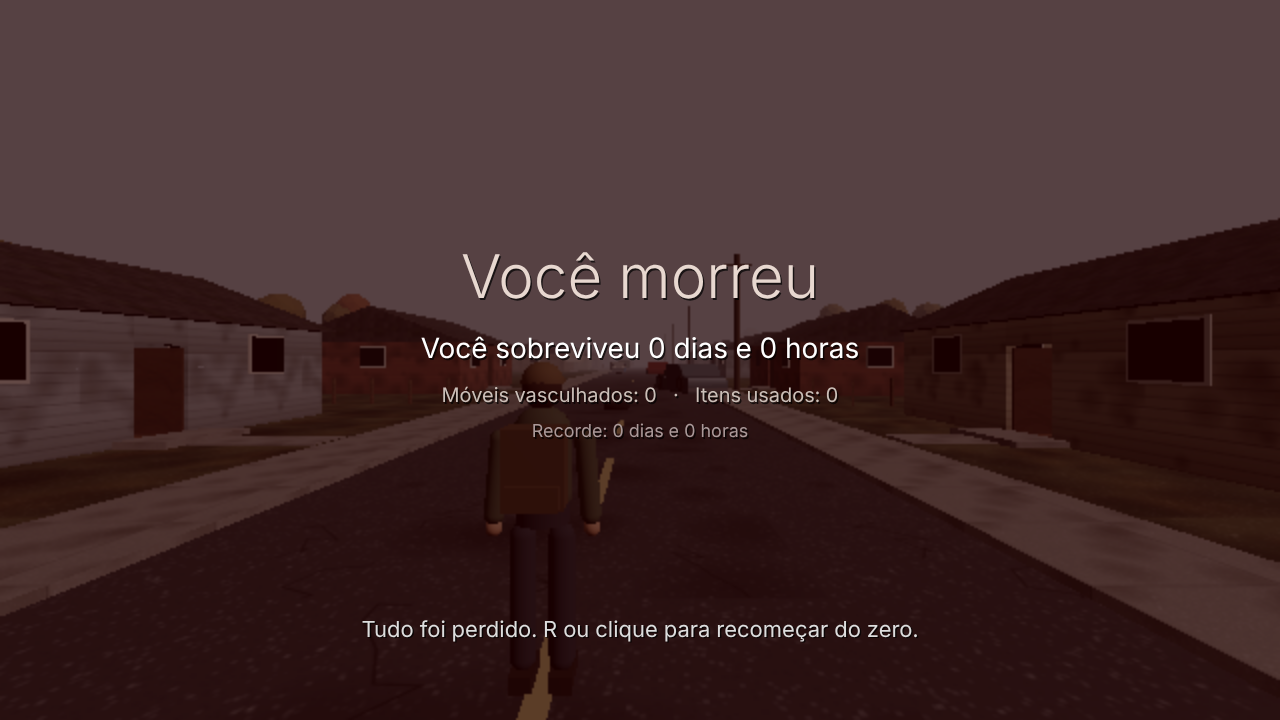
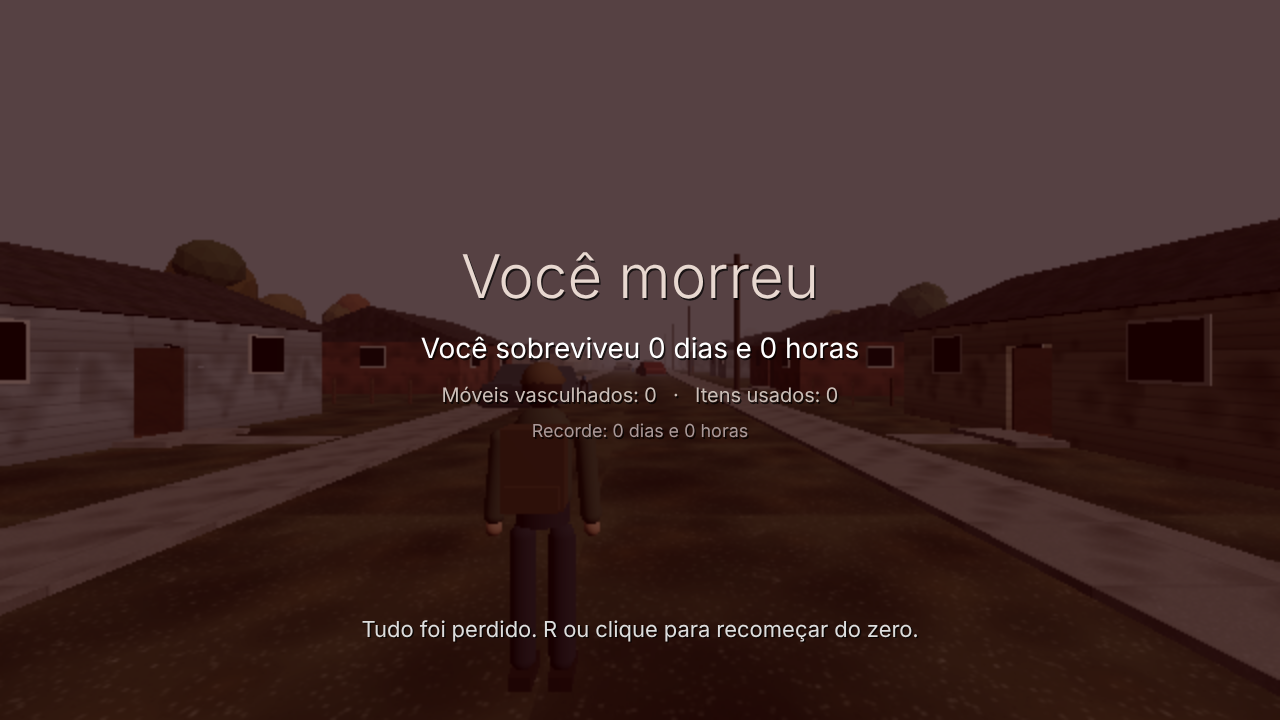
feat: mundo sem fim gerado ao redor do jogador
O mapa não tem borda: quadrados de 100 m são gerados perto do jogador e
descarregados quando longe, guardando o que mudou (móveis vasculhados,
carros estacionados, bombas usadas). Estradas em grade a cada 600 m a
partir da região inicial, com cidades nos cruzamentos, vilas, casas,
postos, fazendas, cabanas, lagos, plantações e florestas.

Story: SPIKE sobrevivencia-spike-2026-11-20

Claude-Session: https://claude.ai/code/session_013o8aek17KGRmKMrjDa2EVT

diff --git a/prototypes/sobrevivencia-spike-2026-11-20/index.html b/prototypes/sobrevivencia-spike-2026-11-20/index.html
@@ -727,11 +727,12 @@ const PLACES = [
   { name: 'Posto Florestal', x: -118, z: -205, r: 30 },
   { name: 'Lago Azul', x: 155, z: 170, r: 60 },
 ];
+let groundMesh = null; // follows the player in 5 m steps (the grass repeats every 5 m)
 const ROAD_A = -55, ROAD_B = 55; // the town's side roads: east to the village, west to the farm
 function buildWorld() {
   // ground, road, sidewalks, centre line
   const gg = new THREE.PlaneGeometry(900, 900); gg.attributes.uv.array.forEach((v, i, a) => { a[i] = v * 180; });
-  mesh(gg, MAT.grass, 0, 0, 0, world, false).rotation.x = -Math.PI / 2;
+  groundMesh = mesh(gg, MAT.grass, 0, 0, 0, world, false); groundMesh.rotation.x = -Math.PI / 2;
   box(0, -0.02, -15, 8, 0.04, 300, MAT.asphalt, false, 6);
   box(-5, 0, -15, 2, 0.12, 300, MAT.concrete, false, 1.5); box(5, 0, -15, 2, 0.12, 300, MAT.concrete, false, 1.5);
   for (let z = 125; z > -150; z -= 6) if (vr(z) > 0.25) box(0, 0.01, z, 0.15, 0.02, 3, MAT.line, false);
@@ -741,7 +742,7 @@ function buildWorld() {
     for (const s of [-1, 1]) {
       const w = 7 + wrng() * 2.5, d = 9.5 + wrng() * 2.5, cz = z + (wrng() - 0.5) * 4;
       const cx = s * (8 + w / 2 + wrng() * 3);
-      if ((s > 0 && Math.abs(cz - ROAD_A) < d / 2 + 6) || (s < 0 && Math.abs(cz - ROAD_B) < d / 2 + 6)) continue; // a side road leaves here
+      if (Math.abs(cz - ROAD_A) < d / 2 + 6 || (s < 0 && Math.abs(cz - ROAD_B) < d / 2 + 6)) continue; // a side road leaves here
       houses.push(house(cx, cz, w, d, -s, mi++ + Math.floor(wrng() * 3)));
       // a fence segment between yards
       if (wrng() < 0.6) for (let i = 0; i < 6; i++) box(s * (7.5 + i * 1.6), 0, cz + 11, 0.08, 1.0 + vr(i + z) * 0.15, 0.08, MAT.planks, false, 1);
@@ -814,9 +815,11 @@ const MAT2 = {
   white: new THREE.MeshStandardMaterial({ color: 0xcfcbc0, roughness: 0.6 }),
 };
 function buildRoads() {
-  road(4, 216, ROAD_A - 4, ROAD_A + 4);                 // east to the village
+  road(4, 350, ROAD_A - 4, ROAD_A + 4);                 // east past the village, on to the next region
+  road(-350, -4, ROAD_A - 4, ROAD_A + 4);               // west out of the region
+  road(-4, 4, -350, -158);                              // north past the market
   road(-206, -4, ROAD_B - 4, ROAD_B + 4);               // west to the farm
-  road(-4, 4, 135, 295);                                // south out of town
+  road(-4, 4, 135, 350);                                // south out of town
   road(4, 108, 167, 173, MAT2.dirt);                    // lane to the lake
   road(-206, -194, 59, 175, MAT2.dirt);                 // farm lane
   road(-124, -116, -200, 51, MAT2.dirt);                // track to the ranger post
@@ -926,6 +929,7 @@ function buildSouth() { // a few houses on the road out of town
 }
 // Where trees may not grow: towns, roads, fields, the lake.
 const CLEAR = [
+  [-352, 352, ROAD_A - 7, ROAD_A + 7], [-8, 8, -352, -150], [-8, 8, 290, 352],
   [-30, 30, -172, 135], [0, 222, ROAD_A - 7, ROAD_A + 7], [178, 250, -248, -48], [-210, 0, ROAD_B - 7, ROAD_B + 7],
   [-292, -128, 55, 182], [-128, -112, -205, 58], [-135, -96, -222, -190], [-8, 8, 130, 300], [-26, 26, 175, 275], [0, 112, 160, 180],
 ];
@@ -944,16 +948,26 @@ function buildForest() {
     // woods come in patches: thin in open country, thick in the woods and near the edge
     const patch = Math.sin(x * 0.021) * Math.cos(z * 0.017) + Math.sin((x + z) * 0.011);
     if (edge < 260 && patch < -0.2 && wrng() < 0.85) continue;
-    const tr = { x, z, h: 4 + wrng() * 4, crowns: [] };
-    for (let k = 0; k < 2; k++) tr.crowns.push({ ci: Math.floor(wrng() * 3), r: 1.6 + wrng() * 1.6, ex: wrng() * 3, ey: wrng() * 3, ox: (wrng() - 0.5) * 1.2, oz: (wrng() - 0.5) * 1.2, k });
+    const tr = makeTree(x, z);
     const c = chunkOf(x, z); if (!byChunk.has(c)) byChunk.set(c, []); byChunk.get(c).push(tr);
     if (x > BOUND.x0 - 2 && x < BOUND.x1 + 2 && z > BOUND.z0 - 2 && z < BOUND.z1 + 2) { boxes.push({ x0: x - 0.3, x1: x + 0.3, z0: z - 0.3, z1: z + 0.3, y0: 0, y1: 9 }); trees.push({ x, z }); }
     n++;
   }
-  // one set of instanced meshes per chunk, so a far chunk's trees switch off with it
-  const trunkG = new THREE.CylinderGeometry(0.2, 0.32, 1, 7), crownG = new THREE.IcosahedronGeometry(1, 1);
+  for (const [c, list] of byChunk) plantTrees(c, list);
+}
+// One set of instanced meshes per chunk, so a far chunk's trees switch off (and unload) with it.
+const TRUNK_G = new THREE.CylinderGeometry(0.2, 0.32, 1, 7), CROWN_G = new THREE.IcosahedronGeometry(1, 1);
+TRUNK_G.userData.shared = CROWN_G.userData.shared = true;
+function makeTree(x, z) {
+  const tr = { x, z, h: 4 + wrng() * 4, crowns: [] };
+  for (let k = 0; k < 2; k++) tr.crowns.push({ ci: Math.floor(wrng() * 3), r: 1.6 + wrng() * 1.6, ex: wrng() * 3, ey: wrng() * 3, ox: (wrng() - 0.5) * 1.2, oz: (wrng() - 0.5) * 1.2, k });
+  return tr;
+}
+function plantTrees(c, list) {
+  if (!list.length) return;
+  const trunkG = TRUNK_G, crownG = CROWN_G;
   const m4 = new THREE.Matrix4(), q = new THREE.Quaternion(), e = new THREE.Euler(), v = new THREE.Vector3(), sc = new THREE.Vector3();
-  for (const [c, list] of byChunk) {
+  {
     const trunks = new THREE.InstancedMesh(trunkG, MAT.bark, list.length);
     const crowns = [MAT.leafA, MAT.leafB, MAT.leafC].map(m => new THREE.InstancedMesh(crownG, m, list.length * 2));
     const cn = [0, 0, 0];
@@ -974,13 +988,18 @@ function buildForest() {
 // ---- Streaming: the map in 100 m chunks; only those near the player are on --------------------
 // A chunk that is off is not drawn, not hit by the aim or camera rays, and its walls are not
 // tested for collision. Nothing in it is lost: furniture, loot and fires keep their state.
-const CH = 100, CH0 = -350, CHN = 7;
-const chunks = [];
-for (let j = 0; j < CHN; j++) for (let i = 0; i < CHN; i++) chunks.push({ i, j, x0: CH0 + i * CH, z0: CH0 + j * CH, objs: [], solids: [], on: true, near: false });
-function chunkOf(x, z) {
-  const i = Math.max(0, Math.min(CHN - 1, Math.floor((x - CH0) / CH))), j = Math.max(0, Math.min(CHN - 1, Math.floor((z - CH0) / CH)));
-  return chunks[j * CHN + i];
+// The map has no edge: chunk (gi, gj) covers x from gi*100-50 to gi*100+50 (z likewise). The
+// starting region (|gi|, |gj| <= 3) is built once at start; every other chunk is generated when
+// you come near and unloaded again when you are far, keeping what you did there (see genChunk).
+const CH = 100;
+const chunks = new Map();
+const isOrigin = (gi, gj) => Math.abs(gi) <= 3 && Math.abs(gj) <= 3;
+function chunkAt(gi, gj) {
+  const k = gi + ',' + gj; let c = chunks.get(k);
+  if (!c) { c = { key: k, gi, gj, i: gi, j: gj, x0: gi * CH - CH / 2, z0: gj * CH - CH / 2, objs: [], solids: [], on: true, near: false, origin: isOrigin(gi, gj), gen: false }; chunks.set(k, c); }
+  return c;
 }
+function chunkOf(x, z) { return chunkAt(Math.floor((x + CH / 2) / CH), Math.floor((z + CH / 2) / CH)); }
 const globalSolids = [];
 function chunkWorld() { // sort everything built so far into chunks; very large pieces (ground, long roads) stay on
   const solidSet = new Set(solids), b3 = new THREE.Box3(), v = new THREE.Vector3(), sz = new THREE.Vector3();
@@ -995,8 +1014,8 @@ function chunkWorld() { // sort everything built so far into chunks; very large 
 // Collision lookup: a 10 m grid over the static boxes; fires and other later boxes are in dynBoxes.
 const GRID = 10, grid = new Map(), dynBoxes = [];
 const gkey = (i, j) => i * 4096 + j;
-function indexBoxes() {
-  for (const b of boxes) for (let i = Math.floor(b.x0 / GRID); i <= Math.floor(b.x1 / GRID); i++) for (let j = Math.floor(b.z0 / GRID); j <= Math.floor(b.z1 / GRID); j++) {
+function indexBoxes(list = boxes) {
+  for (const b of list) for (let i = Math.floor(b.x0 / GRID); i <= Math.floor(b.x1 / GRID); i++) for (let j = Math.floor(b.z0 / GRID); j <= Math.floor(b.z1 / GRID); j++) {
     const k = gkey(i, j); if (!grid.has(k)) grid.set(k, []); grid.get(k).push(b);
   }
 }
@@ -1024,9 +1043,9 @@ function mergeGeos(list) {
   out.setAttribute('uv', new THREE.BufferAttribute(uv, 2)); out.setIndex(new THREE.BufferAttribute(idx, 1));
   out.computeBoundingSphere(); return out;
 }
-function bakeChunks() {
-  world.updateMatrixWorld(true);
-  for (const c of chunks) {
+function bakeChunks() { world.updateMatrixWorld(true); for (const c of chunks.values()) bakeChunk(c); }
+function bakeChunk(c) {
+  {
     const groups = new Map(), keep = [];
     for (const o of c.objs) {
       if (o.isInstancedMesh) { keep.push(o); continue; }
@@ -1043,19 +1062,182 @@ function bakeChunks() {
     for (const { mat, cast, geos } of groups.values()) {
       const m = new THREE.Mesh(mergeGeos(geos), mat); m.castShadow = cast; m.receiveShadow = true;
       m.matrixAutoUpdate = false; world.add(m); keep.push(m);
+      for (const g of geos) g.dispose();
     }
+    c.hidden = c.objs.filter(o => !o.isInstancedMesh); // originals, kept for rays; freed on unload
     c.objs = keep;
   }
+}
+// ---- The endless world: chunks generated around you, unloaded when far ----------------------------
+const saves = new Map();      // chunk key -> what you changed there: furniture loot, parked cars
+const orphanCars = new Set(); // cars driven out of their own chunk; they stay until far from you
+const TOWN_NAMES = ['São Jorge', 'Boa Esperança', 'Santa Rita', 'Nova Aurora', 'Pedra Branca', 'Rio Seco', 'Campo Belo', 'Vale Verde',
+  'Monte Alto', 'Ribeirão Frio', 'Lagoa Funda', 'Serra Velha', 'Bom Retiro', 'Água Clara', 'Três Cruzes', 'Porto Novo', 'Alto Bonito', 'Cerro Azul'];
+function hash2(a, b) { let h = Math.imul(a | 0, 374761393) ^ Math.imul(b | 0, 668265263) ^ Math.imul(CONFIG.seed, 2246822519); h = Math.imul(h ^ (h >>> 13), 1274126177); return (h ^ (h >>> 16)) | 0; }
+const mod = (a, n) => ((a % n) + n) % n;
+const colRoadAt = gi => mod(gi, 6) === 0;                                 // a road along z at x = gi*100
+const nearestRowZ = z => ROAD_A + Math.round((z - ROAD_A) / 600) * 600;
+function rowRoadIn(z0) { const z = nearestRowZ(z0 + 50); return z - 4 >= z0 && z + 4 <= z0 + CH ? z : null; } // along x
+function streamWorld(R) {
+  const s = state, GEN = R + 70, DROP = GEN + 140;
+  const gi0 = Math.floor((s.x + 50) / CH), gj0 = Math.floor((s.z + 50) / CH), n = Math.ceil(GEN / CH) + 1;
+  // generate the nearest missing chunk (one per call keeps it smooth)
+  let best = null, bd = Infinity;
+  for (let i = gi0 - n; i <= gi0 + n; i++) for (let j = gj0 - n; j <= gj0 + n; j++) {
+    if (isOrigin(i, j)) continue;
+    const c = chunks.get(i + ',' + j); if (c && c.gen) continue;
+    const x0 = i * CH - 50, z0 = j * CH - 50, dx = Math.max(x0 - s.x, 0, s.x - (x0 + CH)), dz = Math.max(z0 - s.z, 0, s.z - (z0 + CH)), d = Math.hypot(dx, dz);
+    if (d < GEN && d < bd) { bd = d; best = [i, j]; }
+  }
+  if (best) genChunk(chunkAt(best[0], best[1]));
+  for (const c of [...chunks.values()]) {
+    if (!c.gen) continue;
+    const dx = Math.max(c.x0 - s.x, 0, s.x - (c.x0 + CH)), dz = Math.max(c.z0 - s.z, 0, s.z - (c.z0 + CH));
+    if (Math.hypot(dx, dz) > DROP) unloadChunk(c);
+  }
+  for (const car of [...orphanCars]) if (car !== s.driving && Math.hypot(car.chassis.position.x - s.x, car.chassis.position.z - s.z) > DROP) { removeCar(car); orphanCars.delete(car); }
+}
+function genChunk(c) {
+  wseed = hash2(c.gi, c.gj);
+  const n0 = { kids: world.children.length, solids: solids.length, boxes: boxes.length, cont: containers.length, doors: doors.length, props: props.length, cars: cars.length, trees: trees.length, lakes: lakes.length, pumps: pumps.length };
+  const x0 = c.x0, z0 = c.z0, cx = x0 + 50, cz = z0 + 50, col = colRoadAt(c.gi), rz = rowRoadIn(z0);
+  const save = saves.get(c.key);
+  const clear = []; // rectangles where no tree grows
+  const treesIn = [];
+  const addTrees = (count) => {
+    for (let i = 0, k = 0; i < count * 4 && k < count; i++) {
+      const x = x0 + 2 + wrng() * 96, z = z0 + 2 + wrng() * 96;
+      if (clear.some(r => x > r[0] && x < r[1] && z > r[2] && z < r[3])) continue;
+      if (Math.abs(z - nearestRowZ(z)) < 11 || Math.abs(x - Math.round(x / 600) * 600) < 11) continue; // roadsides
+      if (lakes.slice(n0.lakes).some(l => Math.hypot(x - l.x, z - l.z) < l.r + 6)) continue;
+      treesIn.push(makeTree(x, z)); boxes.push({ x0: x - 0.3, x1: x + 0.3, z0: z - 0.3, z1: z + 0.3, y0: 0, y1: 9 }); trees.push({ x, z, chunk: c.key }); k++;
+    }
+  };
+  let townName = null;
+  if (col) { road(cx - 4, cx + 4, z0, z0 + CH); clear.push([cx - 12, cx + 12, z0, z0 + CH]); }
+  if (rz !== null) { road(x0, x0 + CH, rz - 4, rz + 4); clear.push([x0, x0 + CH, rz - 12, rz + 12]); }
+  const roll = wrng();
+  if (col && rz !== null) { // a crossroads town
+    townName = TOWN_NAMES[mod(hash2(c.gi * 7, c.gj * 13), TOWN_NAMES.length)];
+    clear.push([cx - 32, cx + 32, z0, z0 + CH]);
+    let mi = mod(c.gi + c.gj, 6);
+    for (let z = z0 + 9; z < z0 + CH - 8; z += 20) for (const sd of [-1, 1]) {
+      if (Math.abs(z - rz) < 12) continue;
+      const w = 7 + wrng() * 2, d = 9 + wrng() * 2;
+      if (sd > 0 && z > rz && wrng() < 0.6) { house(cx + 8 + 4.5, z + 1, 9, 12, -1, mi++, { kind: 'shop', open: true, roadX: cx }); continue; }
+      const h = house(cx + sd * (8 + w / 2 + wrng() * 2), z + (wrng() - 0.5) * 2, w, d, -sd, mi++, { roadX: cx }); spawnPropsInHouse(h);
+    }
+    roadSign(cx + 6, rz + 6, 0, [townName, '']);
+  } else if (col && roll < 0.35) { // a village on the road
+    townName = 'Vila ' + TOWN_NAMES[mod(hash2(c.gi * 5, c.gj * 11), TOWN_NAMES.length)];
+    clear.push([cx - 30, cx + 30, z0, z0 + CH]);
+    let mi = mod(c.gi * 3 + c.gj, 6);
+    for (let z = z0 + 12; z < z0 + CH - 10; z += 24) for (const sd of [-1, 1]) {
+      if (wrng() < 0.3) continue;
+      const w = 7 + wrng() * 2, d = 9 + wrng() * 2;
+      const h = house(cx + sd * (8 + w / 2 + wrng() * 3), z + (wrng() - 0.5) * 3, w, d, -sd, mi++, { roadX: cx }); spawnPropsInHouse(h);
+    }
+    roadSign(cx + 6, z0 + 4, 0, [townName, '']);
+  } else if (col && roll < 0.5) { // a lone house by the road
+    const sd = wrng() < 0.5 ? -1 : 1, h = house(cx + sd * 14, cz, 8, 10, -sd, mod(c.gj, 6), { roadX: cx });
+    clear.push([cx + sd * 14 - 8, cx + sd * 14 + 8, cz - 8, cz + 8]); spawnPropsInHouse(h);
+  } else if (rz !== null && roll < 0.2) { // a gas station on the road
+    const gx = cx, gz = rz - 22; clear.push([gx - 20, gx + 20, gz - 12, rz]);
+    box(gx, 0, gz + 6, 22, 0.1, 10, MAT.concrete, false, 2);
+    pumpAt(gx - 4, gz + 7); pumpAt(gx + 4, gz + 7);
+    house(gx, gz - 4, 9, 10, 1, 3, { kind: 'shop', open: true, roadX: gx + 20 });
+    townName = 'Posto ' + TOWN_NAMES[mod(hash2(c.gi, c.gj * 3), TOWN_NAMES.length)];
+  } else if (rz !== null && roll < 0.4) { // a farmhouse beside the road
+    const fz = rz + 26; clear.push([cx - 40, cx + 40, rz, z0 + CH]);
+    const h = house(cx - 20, fz, 9, 11, 1, 1, { open: true, roadX: cx - 8 }); spawnPropsInHouse(h);
+    field(cx - 5, cx + 40, fz - 8, fz + 20);
+  } else if (!col && rz === null) {
+    if (roll < 0.12) { // a lake
+      const r = 18 + wrng() * 16, lx = cx + (wrng() - 0.5) * 20, lz = cz + (wrng() - 0.5) * 20;
+      const shore = mesh(new THREE.CircleGeometry(r + 4, 36), MAT2.mud, lx, 0.012, lz, world, false); shore.rotation.x = -Math.PI / 2;
+      const water = mesh(new THREE.CircleGeometry(r, 36), MAT2.water, lx, 0.05, lz, world, false); water.rotation.x = -Math.PI / 2;
+      lakes.push({ x: lx, z: lz, r: r - 1 });
+    } else if (roll < 0.2) { // a hunter's cabin in the woods
+      const h = house(cx, cz, 7, 9, -1, 5, { kind: 'cabin', open: true, roadX: cx - 6 });
+      furniture('pilha', cx + 6, cz - 6, 0); clear.push([cx - 12, cx + 12, cz - 12, cz + 12]); spawnPropsInHouse(h);
+    } else if (roll < 0.35) { // an abandoned field
+      field(x0 + 15, x0 + 85, z0 + 20, z0 + 80); clear.push([x0 + 10, x0 + 90, z0 + 15, z0 + 85]);
+    }
+  }
+  if ((col || rz !== null) && wrng() < 0.35) { // an abandoned car on the road
+    if (col) car(cx + (wrng() < 0.5 ? -2 : 2), z0 + 15 + wrng() * 70, (wrng() < 0.5 ? 0 : Math.PI) + (wrng() - 0.5) * 0.6, c.gi + c.gj);
+    else car(x0 + 15 + wrng() * 70, rz + (wrng() < 0.5 ? -2 : 2), Math.PI / 2 + (wrng() - 0.5) * 0.6, c.gi);
+  }
+  // woods: thick or thin by area, never on roads or in towns
+  const patch = Math.sin(cx * 0.021) * Math.cos(cz * 0.017) + Math.sin((cx + cz) * 0.011);
+  const base = townName ? 10 : col || rz !== null ? 25 : patch > -0.2 ? 85 : 20;
+  addTrees(LIGHT ? Math.round(base * 0.55) : base);
+  plantTrees(c, treesIn);
+  // gather what was built into the chunk
+  const kids = world.children.slice(n0.kids);
+  c.objs = kids.filter(o => !freeObjs.has(o) && !o.userData.chunked).concat(c.objs);
+  c.solids = solids.splice(n0.solids);
+  c.boxes = boxes.slice(n0.boxes); c.containers = containers.slice(n0.cont); c.doors = doors.slice(n0.doors);
+  c.props = props.slice(n0.props); c.cars = cars.slice(n0.cars); c.lakes = lakes.slice(n0.lakes); c.pumps = pumps.slice(n0.pumps);
+  c.lakeBodies = c.lakes.map(l => { const lb = new CANNON.Body({ mass: 0 }); lb.addShape(new CANNON.Cylinder(l.r, l.r, 2, 24)); lb.position.set(l.x, 0, l.z); phys.addBody(lb); return lb; });
+  for (const cn of c.containers) cn.items = rollLoot(cn.type);
+  if (save) { // put back what you did here last time
+    c.containers.forEach((cn, i) => { const sv = save.containers[i]; if (sv) Object.assign(cn, sv); });
+    for (const car of c.cars) removeCar(car);
+    c.cars = save.cars.map(sc => { const nc = car(sc.x, sc.z, sc.rot, sc.mi); nc.fuel = sc.fuel; return nc; });
+    c.pumps.forEach((pm, i) => { if (save.pumps[i] !== undefined) pm.uses = save.pumps[i]; });
+  } else for (const car of c.cars) car.fuel = Math.floor(wrng() * tune.car_start_fuel_max);
+  if (townName && !PLACES.some(p => p.name === townName)) PLACES.push({ name: townName, x: cx, z: rz !== null ? rz : cz, r: 60, gen: c.key });
+  world.updateMatrixWorld(true); bakeChunk(c); indexBoxes(c.boxes);
+  for (const o of c.objs) o.visible = c.on;
+  c.gen = true;
+}
+function removeCar(car) {
+  if (car.live) car.vehicle.removeFromWorld(phys);
+  world.remove(car.g); for (const w of car.wheels) world.remove(w);
+  const i = cars.indexOf(car); if (i >= 0) cars.splice(i, 1);
+}
+function disposeTree(o) { o.traverse(m => { if (m.isMesh && m.geometry && !m.geometry.userData.shared) m.geometry.dispose(); }); }
+function unloadChunk(c) {
+  const s = state;
+  // remember what you changed
+  saves.set(c.key, {
+    containers: c.containers.map(cn => ({ items: cn.items.slice(), searched: cn.searched, refillAt: cn.refillAt })),
+    cars: [], pumps: c.pumps.map(pm => pm.uses),
+  });
+  const sv = saves.get(c.key);
+  for (const car of c.cars) {
+    if (car === s.driving || Math.hypot(car.chassis.position.x - s.x, car.chassis.position.z - s.z) < 200) { orphanCars.add(car); continue; }
+    const p = car.chassis.position; sv.cars.push({ x: p.x, z: p.z, rot: carYaw(car), mi: 0, fuel: car.fuel }); removeCar(car);
+  }
+  for (const o of c.objs.concat(c.hidden || [])) { world.remove(o); disposeTree(o); }
+  for (const b of c.boxes) {
+    if (b.body && liveBoxes.has(b)) { phys.removeBody(b.body); liveBoxes.delete(b); }
+    for (let i = Math.floor(b.x0 / GRID); i <= Math.floor(b.x1 / GRID); i++) for (let j = Math.floor(b.z0 / GRID); j <= Math.floor(b.z1 / GRID); j++) {
+      const l = grid.get(gkey(i, j)); if (l) { const k = l.indexOf(b); if (k >= 0) l.splice(k, 1); }
+    }
+  }
+  const drop = (arr, list) => { const set = new Set(list); for (let i = arr.length - 1; i >= 0; i--) if (set.has(arr[i])) arr.splice(i, 1); };
+  drop(boxes, c.boxes); drop(containers, c.containers); drop(lakes, c.lakes); drop(pumps, c.pumps);
+  for (const d of c.doors) { world.remove(d.pivot); phys.removeBody(d.body); disposeTree(d.pivot); }
+  drop(doors, c.doors);
+  for (const pr of c.props) { if (pr === s.hold) s.hold = null; if (pr.live) phys.removeBody(pr.body); world.remove(pr.g); disposeTree(pr.g); }
+  drop(props, c.props);
+  for (const lb of c.lakeBodies) phys.removeBody(lb);
+  for (let i = trees.length - 1; i >= 0; i--) if (trees[i].chunk === c.key) trees.splice(i, 1);
+  chunks.delete(c.key); nearKey = '';
 }
 let aimTargets = [], nearKey = '';
 const liveBoxes = new Set();
 function updateChunks() {
   const s = state, R = Math.min(LIGHT ? tune.stream_radius_mobile : tune.stream_radius, world.fog.far + 25);
   let key = '';
-  for (const c of chunks) {
+  streamWorld(R);
+  if (groundMesh) groundMesh.position.set(Math.round(s.x / 5) * 5, 0, Math.round(s.z / 5) * 5);
+  for (const c of chunks.values()) {
     const dx = Math.max(c.x0 - s.x, 0, s.x - (c.x0 + CH)), dz = Math.max(c.z0 - s.z, 0, s.z - (c.z0 + CH)), d = Math.hypot(dx, dz);
     const on = d < R; if (on !== c.on) { c.on = on; for (const o of c.objs) o.visible = on; }
-    c.near = d < 60; if (c.near) key += c.i + ',' + c.j + ';';
+    c.near = d < 60; if (c.near) key += c.key + ';';
 
   }
   // fixed things (walls, furniture, trees) are physics bodies only within ~30 m of the player
@@ -1074,7 +1256,7 @@ function updateChunks() {
   }
   if (key !== nearKey) { // the rays only test what is close by
     nearKey = key; aimTargets = globalSolids.slice();
-    for (const c of chunks) if (c.near) for (const m of c.solids) aimTargets.push(m);
+    for (const c of chunks.values()) if (c.near) for (const m of c.solids) aimTargets.push(m);
   }
 }
 buildWorld();
@@ -1847,7 +2029,7 @@ function drawCompass() {
   const marks = [];
   for (const p of PLACES) {
     const dx = p.x - s.x, dz = p.z - s.z, dist = Math.hypot(dx, dz);
-    if (dist < p.r * 0.5) continue;
+    if (dist < p.r * 0.5 || dist > 900) continue;
     const rel = wrap(Math.atan2(dx, -dz) - heading); if (Math.abs(rel) > half) continue;
     const x = cx + rel / half * cw / 2;
     ctx.fillStyle = '#d9b46a'; ctx.beginPath(); ctx.moveTo(x, y + 9); ctx.lineTo(x + 5, y + 15); ctx.lineTo(x, y + 21); ctx.lineTo(x - 5, y + 15); ctx.fill();
